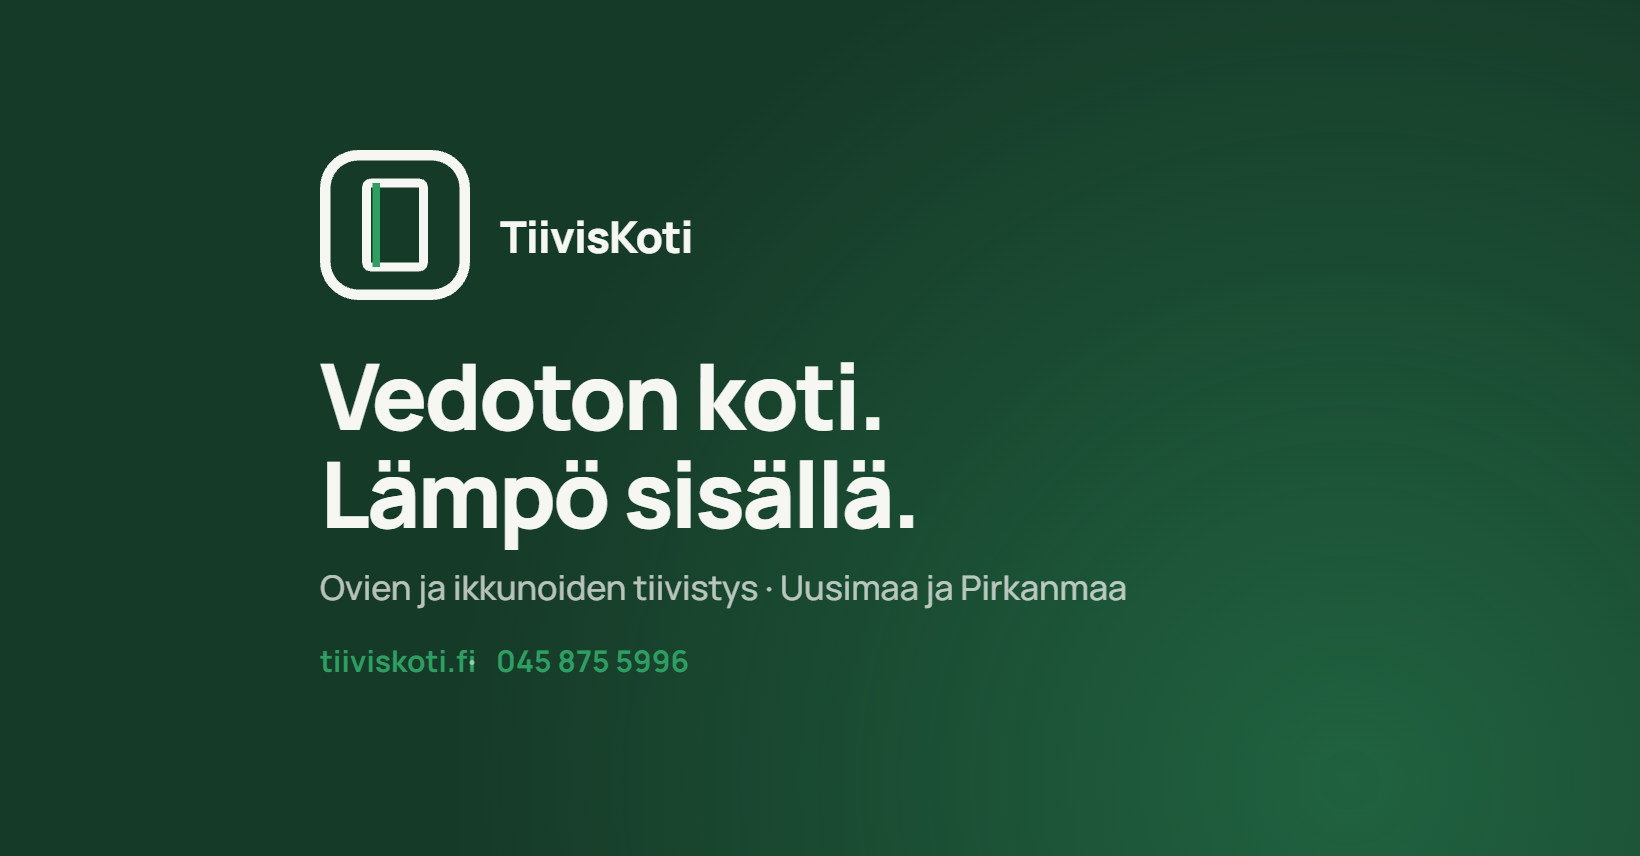
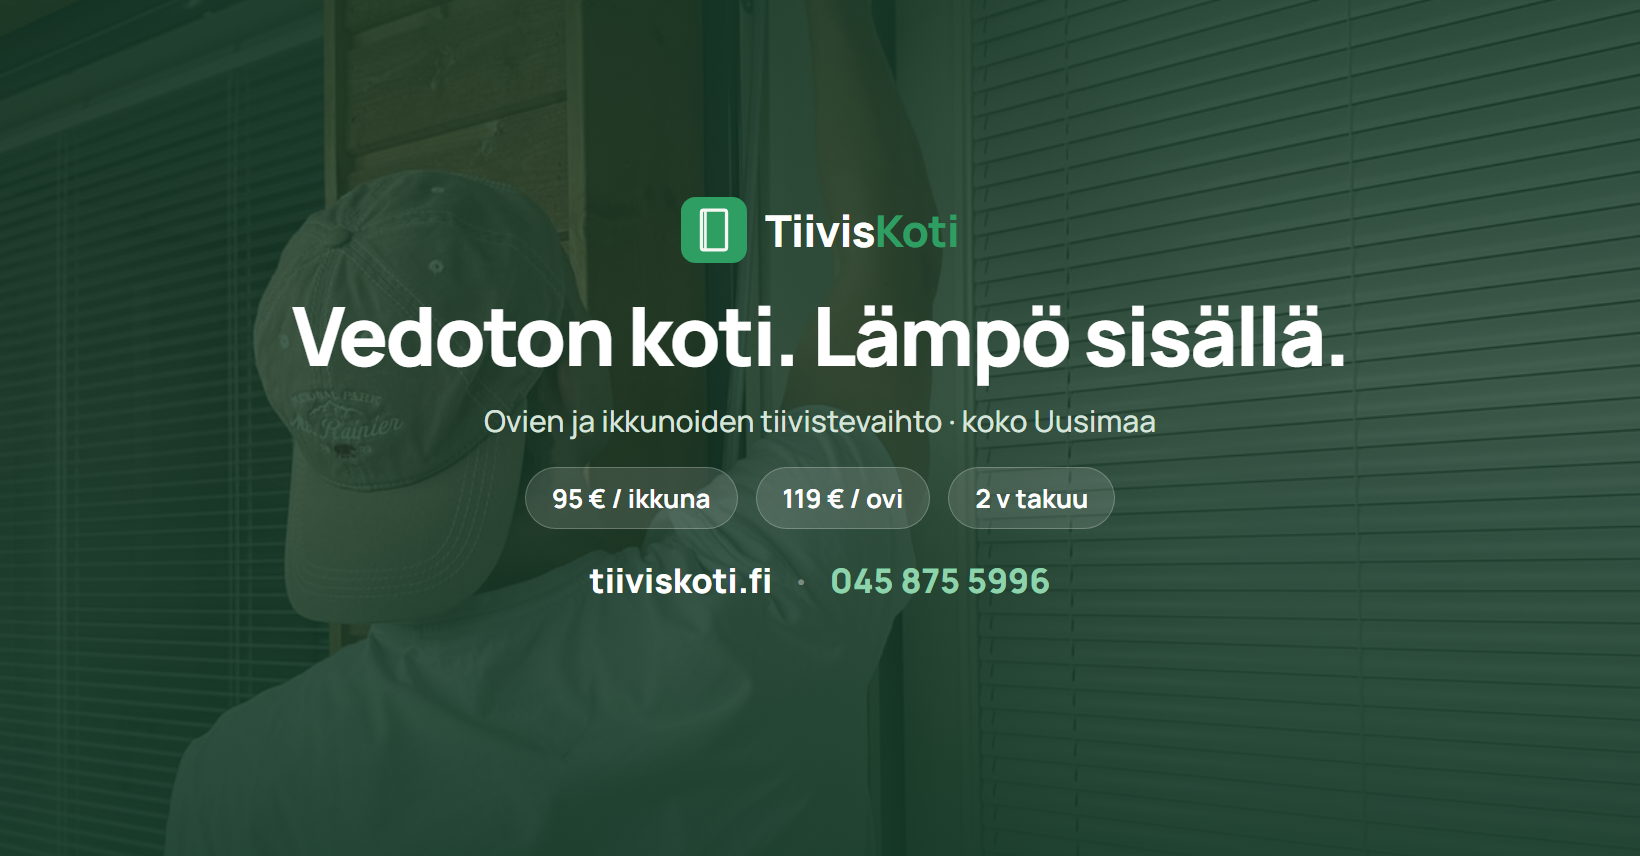
Uusi Facebook-profiilikuva ja kansikuva nykyisillä tiedoilla
- kansikuvassa oli vanha toiminta-alue "Uusimaa ja Pirkanmaa";
  koko muu sivusto puhuu vain Uudestamaasta -> korjattu
- kansikuvaan oma työkuva, hinnat 95 / 119 €, takuu ja yhteystiedot;
  sisältö keskitetty puhelimen 75 % turva-alueelle ja alalaita jätetty
  tyhjäksi profiilikuvan alle
- profiilikuvan tausta tummasta vihreästä brändivihreäksi: 32 px koossa
  tummin vihreä näyttää mustalta
- uudet lähteet ads/fb-profiili.html + build-fb-profiili.mjs
- LUE-MINUT.md päivitetty

Vanhat versiot löytyvät git-historiasta.

diff --git a/tiiviskoti/brand/ads/fb-profiili.html b/tiiviskoti/brand/ads/fb-profiili.html
@@ -1,0 +1,120 @@
+<!doctype html>
+<html lang="fi">
+<head>
+<meta charset="utf-8">
+<title>TiivisKoti — Facebook-profiilikuva ja kansikuva</title>
+<!--
+  FACEBOOK-PROFIILI
+
+  RENDERÖINTI
+    node tiiviskoti/brand/ads/build-fb-profiili.mjs   (repon juuresta)
+    Vaatii dev-palvelimen: cd tiiviskoti && node _serve.mjs
+    Tuottaa: brand/fb-profiilikuva-1080.png, brand/fb-kansikuva-1640x856.png
+
+  PROFIILIKUVA · 1080 × 1080
+    Vain merkki, ei nimeä — Facebook rajaa kuvan ympyräksi ja näyttää sen
+    syötteessä n. 32 px kokoisena, jolloin teksti ei erotu. Sivun nimi näkyy
+    joka tapauksessa kuvan vieressä.
+    Merkki pidetään n. 55 % leveydestä, jotta ympyrärajaus ei leikkaa sitä.
+    Tausta on brändivihreä eikä tummin vihreä: 32 px koossa tummin vihreä
+    näyttää mustalta eikä erotu muista.
+
+  KANSIKUVA · 1640 × 856
+    Facebook näyttää työpöydällä koko kuvan, puhelimessa vain keskimmäiset
+    n. 75 % leveydestä. Siksi kaikki teksti on keskitetty .safe-alueelle.
+    Työpöydällä profiilikuva peittää vasemman alakulman, joten alalaita
+    pidetään tyhjänä.
+-->
+<link rel="preconnect" href="https://fonts.googleapis.com">
+<link rel="preconnect" href="https://fonts.gstatic.com" crossorigin>
+<link href="https://fonts.googleapis.com/css2?family=Manrope:wght@400;500;600;700;800&display=swap" rel="stylesheet">
+<style>
+:root{
+  --green:#217A4E; --green-l:#2E9E63; --deep:#163A28; --bg:#F6F7F3;
+  --dtext:#D7E4DB; --amber:#E0A63A;
+}
+*{margin:0;padding:0;box-sizing:border-box}
+body{background:#8f9a92;font-family:Manrope,system-ui,sans-serif;
+  display:flex;flex-direction:column;gap:36px;padding:36px;align-items:flex-start}
+
+/* ---------- PROFIILIKUVA ---------- */
+#fb-profiili{width:1080px;height:1080px;background:var(--green);
+  display:flex;align-items:center;justify-content:center;flex:none}
+#fb-profiili svg{width:600px;height:600px;display:block}
+
+/* ympyrärajauksen apuviiva — ei renderöidy PNG:hen, vain esikatseluun */
+.guide{position:absolute;inset:0;border-radius:50%;
+  border:2px dashed rgba(255,255,255,.35);pointer-events:none}
+.wrapguide{position:relative;flex:none}
+
+/* ---------- KANSIKUVA ---------- */
+#fb-kansikuva{width:1640px;height:856px;position:relative;overflow:hidden;
+  background:var(--deep);flex:none;display:flex;align-items:center;justify-content:center}
+#fb-kansikuva .photo{position:absolute;inset:0;z-index:0}
+#fb-kansikuva .photo img{width:100%;height:100%;object-fit:cover;object-position:50% 38%}
+#fb-kansikuva .scrim{position:absolute;inset:0;z-index:1;
+  background:linear-gradient(180deg,rgba(22,58,40,.86) 0%,rgba(22,58,40,.80) 45%,rgba(22,58,40,.93) 100%)}
+
+/* puhelimen näyttämä turva-alue: keskimmäiset 75 % */
+.safe{position:relative;z-index:2;width:75%;text-align:center;
+  display:flex;flex-direction:column;align-items:center;
+  padding-bottom:56px}   /* alalaita tyhjäksi profiilikuvan alle */
+
+.lockup{display:flex;align-items:center;gap:18px;margin-bottom:30px}
+.lockup svg{width:66px;height:66px;display:block}
+.lockup span{font-size:44px;font-weight:800;color:#fff;letter-spacing:-.02em}
+.lockup span i{font-style:normal;color:var(--green-l)}
+
+#fb-kansikuva h1{font-size:82px;font-weight:800;color:#fff;line-height:1.04;
+  letter-spacing:-.03em;margin-bottom:22px}
+#fb-kansikuva .tag{font-size:30px;font-weight:500;color:var(--dtext);margin-bottom:26px}
+
+.facts{display:flex;align-items:center;gap:18px;margin-bottom:28px}
+.fact{background:rgba(255,255,255,.12);border:1px solid rgba(255,255,255,.24);
+  border-radius:99px;padding:12px 26px;font-size:26px;font-weight:700;color:#fff}
+.contactline{display:flex;align-items:center;gap:24px;font-size:34px;font-weight:800}
+.contactline .dom{color:#fff}
+.contactline .dot{color:rgba(255,255,255,.4)}
+.contactline .tel{color:#8FD3AC}
+</style>
+</head>
+<body>
+
+<!-- ============ PROFIILIKUVA 1080 × 1080 ============ -->
+<div class="wrapguide">
+  <div id="fb-profiili">
+    <svg viewBox="0 0 100 100" aria-hidden="true">
+      <rect x="14" y="14" width="72" height="72" rx="18" fill="none" stroke="#F6F7F3" stroke-width="6"/>
+      <rect x="34" y="30" width="32" height="40" rx="2.5" fill="none" stroke="#F6F7F3" stroke-width="5"/>
+      <rect x="37.5" y="30" width="3.4" height="40" fill="#F6F7F3"/>
+    </svg>
+  </div>
+  <div class="guide"></div>
+</div>
+
+<!-- ============ KANSIKUVA 1640 × 856 ============ -->
+<div id="fb-kansikuva">
+  <div class="photo"><img src="../../img/miksi-tyo.jpg" alt=""></div>
+  <div class="scrim"></div>
+  <div class="safe">
+    <div class="lockup">
+      <svg viewBox="0 0 100 100" aria-hidden="true"><rect width="100" height="100" rx="22" fill="#2E9E63"/><rect x="31" y="20" width="38" height="60" rx="3" fill="none" stroke="#F6F7F3" stroke-width="5"/><rect x="35" y="20" width="4" height="60" fill="#F6F7F3"/></svg>
+      <span>Tiivis<i>Koti</i></span>
+    </div>
+    <h1>Vedoton koti. Lämpö sisällä.</h1>
+    <p class="tag">Ovien ja ikkunoiden tiivistevaihto · koko Uusimaa</p>
+    <div class="facts">
+      <span class="fact">95 € / ikkuna</span>
+      <span class="fact">119 € / ovi</span>
+      <span class="fact">2 v takuu</span>
+    </div>
+    <div class="contactline">
+      <span class="dom">tiiviskoti.fi</span>
+      <span class="dot">·</span>
+      <span class="tel">045 875 5996</span>
+    </div>
+  </div>
+</div>
+
+</body>
+</html>

diff --git a/tiiviskoti/brand/LUE-MINUT.md b/tiiviskoti/brand/LUE-MINUT.md
@@ -75,9 +75,19 @@ profiilikuvan ympyräksi ja näyttää sen syötteessä noin 32 px kokoisena —
 koossa teksti ei ole luettavissa, ja sivun nimi näkyy joka tapauksessa kuvan
 vieressä. Tunnistettavuus tulee merkistä.
 
+Tausta on brändivihreä (`#217A4E`) eikä tummin vihreä: 32 px koossa tummin
+vihreä näyttää käytännössä mustalta eikä erotu muista profiilikuvista.
+Merkki on n. 55 % leveydestä, jolloin ympyrärajaus ei koske siihen.
+
 **Kansikuvassa sisältö on keskellä.** Facebook näyttää kansikuvan
-työpöydällä kokonaan mutta rajaa puhelimessa reunoilta, joten teksti ja
-yhteystiedot on pidetty turvallisella keskialueella.
+työpöydällä kokonaan mutta rajaa puhelimessa reunoilta noin 75 %:iin, joten
+teksti ja yhteystiedot on pidetty turvallisella keskialueella. Alalaita on
+jätetty tyhjäksi, koska työpöydällä profiilikuva peittää vasemman alakulman.
+
+Molemmat syntyvät tiedostosta `ads/fb-profiili.html`:
+
+    cd tiiviskoti && node _serve.mjs          # dev-palvelin päälle
+    node tiiviskoti/brand/ads/build-fb-profiili.mjs   # repon juuresta
 
 ## Jos teet lisää grafiikkaa
 
